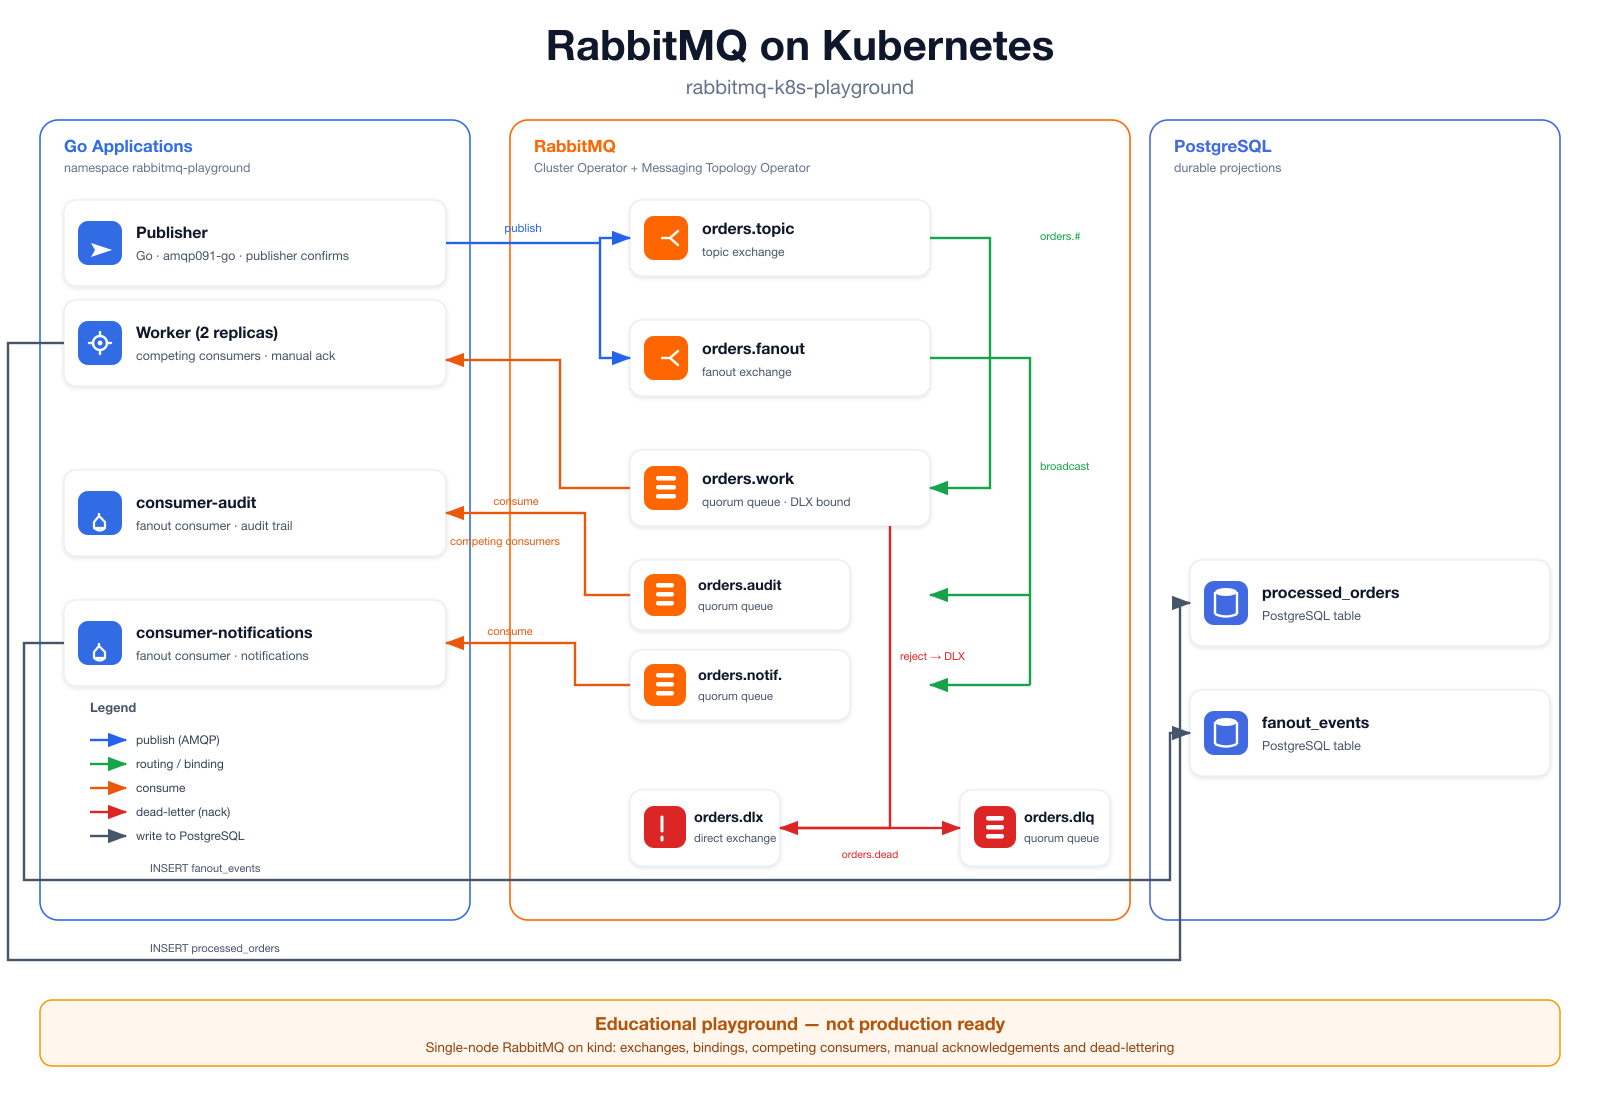
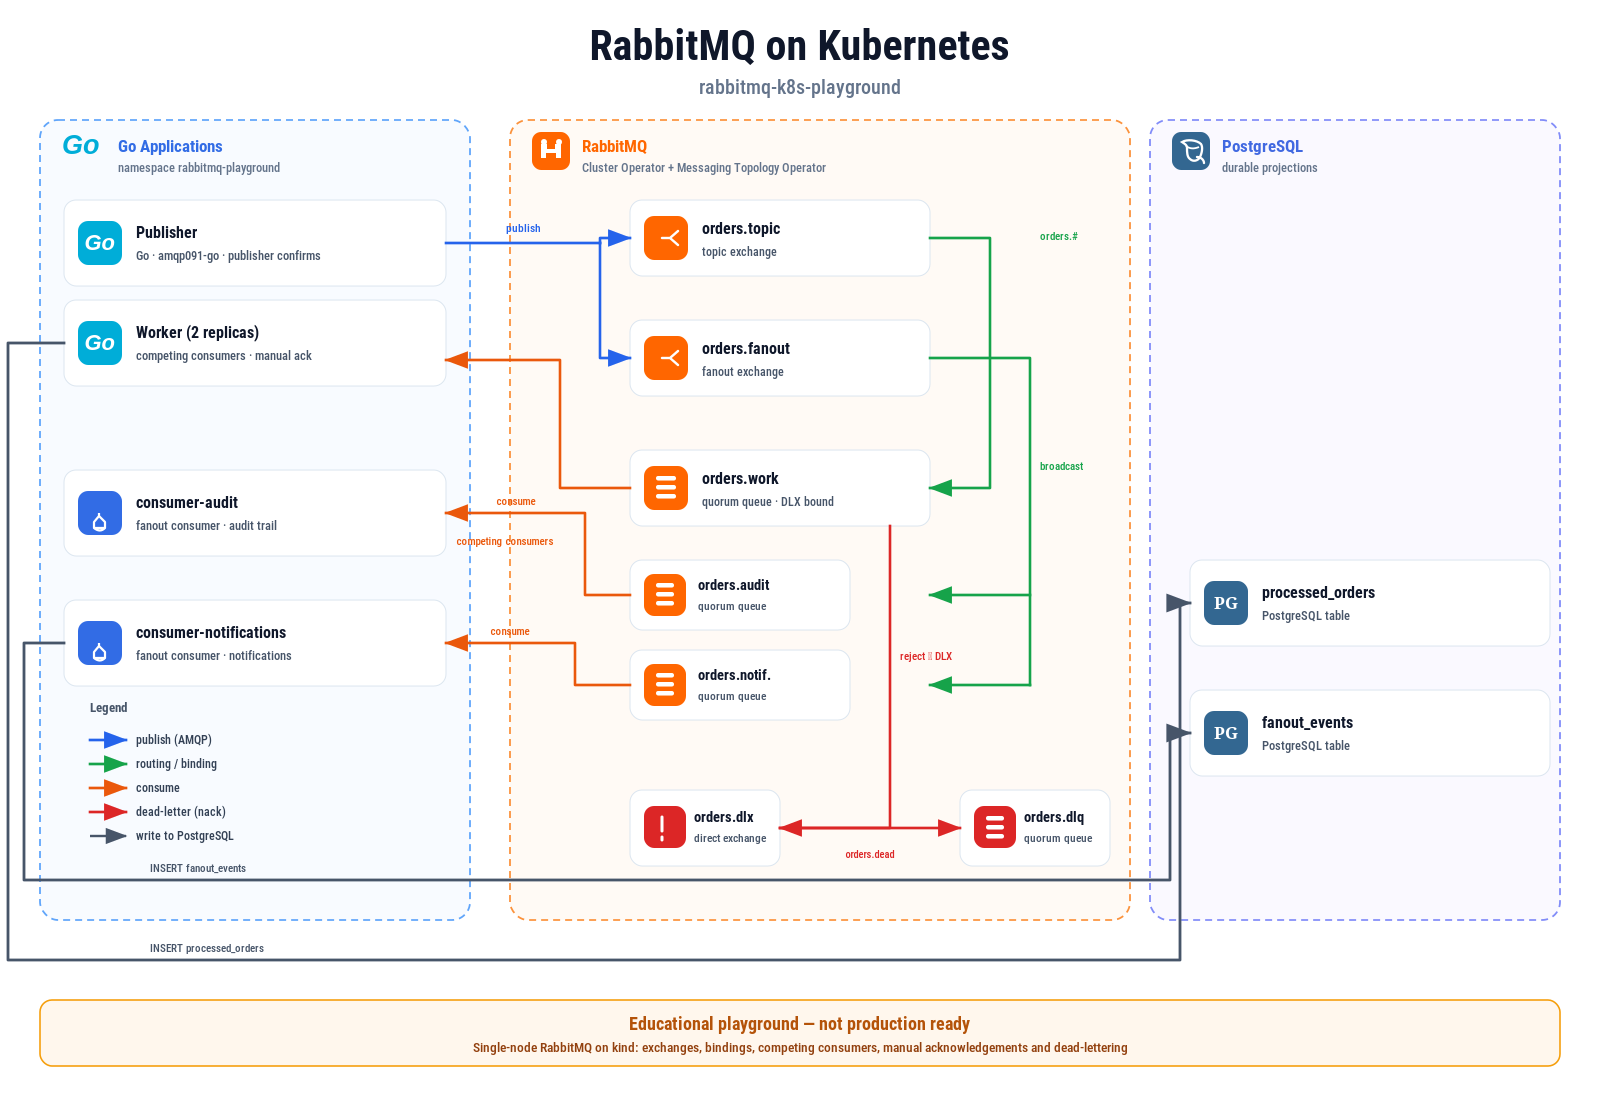
updated readme

diff --git a/README.md b/README.md
@@ -46,7 +46,7 @@ The playground demonstrates the key RabbitMQ concepts:
 # 🏗 Architecture
 
 <p align="center">
-  <img src="media/architecture.png" width="900" alt="rabbitmq-k8s-playground architecture diagram">
+  <img src="media/architecture.svg" width="900" alt="rabbitmq-k8s-playground architecture diagram">
 </p>
 
 ---
